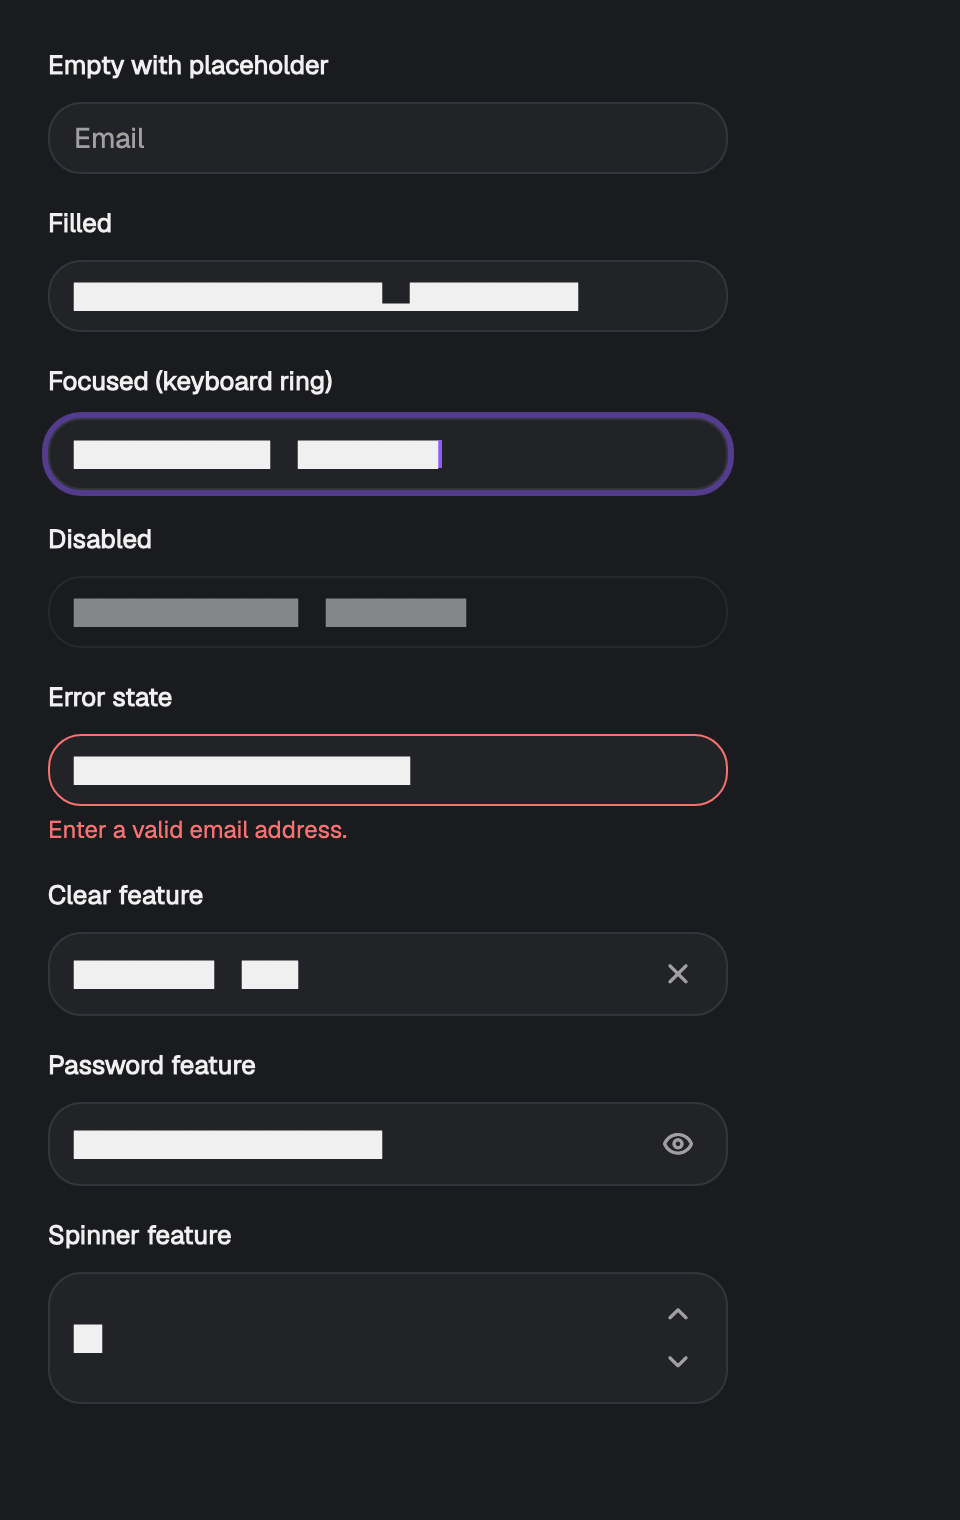
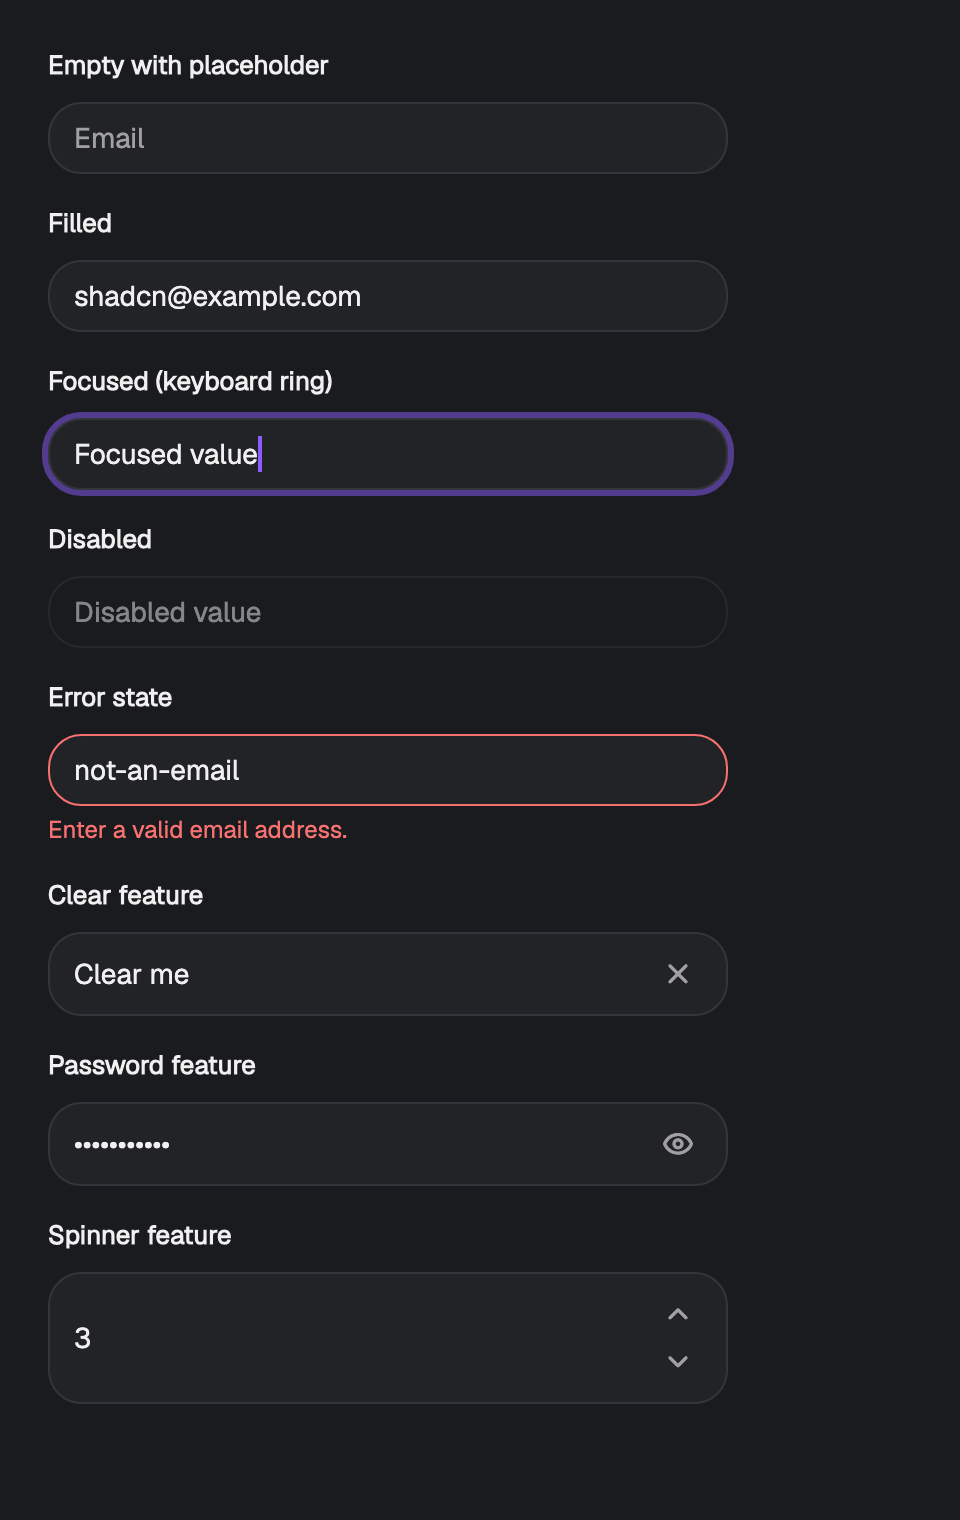
fix(registry_next): editable text uses the theme font; drop legacy meta dependencies blocks

diff --git a/flutter_shadcn_kit/test/registry_next/primitives/text_editing_test.dart b/flutter_shadcn_kit/test/registry_next/primitives/text_editing_test.dart
@@ -5,6 +5,7 @@
 
 import 'package:flutter/services.dart';
 import 'package:flutter/widgets.dart';
+import 'package:flutter_shadcn_kit/registry_next/primitives/text_editing/editable_text_style.dart';
 import 'package:flutter_shadcn_kit/registry_next/primitives/text_editing/text_editing.dart';
 import 'package:flutter_shadcn_kit/registry_next/theme/theme.dart';
 import 'package:flutter_test/flutter_test.dart';
@@ -271,5 +272,75 @@ void main() {
     expect(find.text('Cut'), findsNothing);
     expect(find.text('Copy'), findsNothing);
     expect(find.text('Select all'), findsOneWidget);
+  });
+
+  group('resolveEditableTextStyle', () {
+    Future<TextStyle> resolve(
+      WidgetTester tester, {
+      TextStyle? base,
+      List<TextStyle?> overrides = const <TextStyle?>[],
+      required Color color,
+      TextStyle ambient = const TextStyle(),
+    }) async {
+      late TextStyle resolved;
+      await tester.pumpWidget(
+        ShadcnTheme(
+          data: const ShadcnThemeData(),
+          child: Directionality(
+            textDirection: TextDirection.ltr,
+            child: DefaultTextStyle(
+              style: ambient,
+              child: Builder(
+                builder: (context) {
+                  resolved = resolveEditableTextStyle(
+                    context,
+                    base: base,
+                    overrides: overrides,
+                    color: color,
+                  );
+                  return const SizedBox();
+                },
+              ),
+            ),
+          ),
+        ),
+      );
+      return resolved;
+    }
+
+    testWidgets('falls back to the theme sans family', (tester) async {
+      final style = await resolve(
+        tester,
+        base: const TextStyle(fontSize: 14),
+        color: const Color(0xFF111111),
+      );
+      expect(
+        style.fontFamily,
+        const ShadcnThemeData().typography.sans.fontFamily,
+      );
+      expect(style.fontSize, 14);
+      expect(style.color, const Color(0xFF111111));
+    });
+
+    testWidgets('ambient family wins over theme sans, override wins all', (
+      tester,
+    ) async {
+      final ambient = await resolve(
+        tester,
+        base: const TextStyle(fontSize: 14),
+        ambient: const TextStyle(fontFamily: 'Ambient'),
+        color: const Color(0xFF111111),
+      );
+      expect(ambient.fontFamily, 'Ambient');
+
+      final explicit = await resolve(
+        tester,
+        base: const TextStyle(fontSize: 14),
+        overrides: const <TextStyle?>[TextStyle(fontFamily: 'Custom')],
+        ambient: const TextStyle(fontFamily: 'Ambient'),
+        color: const Color(0xFF111111),
+      );
+      expect(explicit.fontFamily, 'Custom');
+    });
   });
 }

diff --git a/flutter_shadcn_kit/lib/registry_next/primitives/text_editing/editable_text_style.dart b/flutter_shadcn_kit/lib/registry_next/primitives/text_editing/editable_text_style.dart
@@ -1,0 +1,46 @@
+// Shared style resolution for visible editable text.
+//
+// `EditableText` ignores the ambient `DefaultTextStyle`, so the theme font
+// must be wired explicitly here instead of relying on inheritance like
+// `Text` does. Every registry `EditableText` with painted glyphs
+// (`input` via `resolveInputSurface`, hence `text_area` too) resolves its
+// style through `resolveEditableTextStyle`.
+
+import 'package:flutter/widgets.dart';
+
+import '../../theme/theme.dart';
+
+/// Completes an editable-text style.
+///
+/// [base] is the size source (usually `theme.typography.small`, i.e.
+/// text-sm/14); [overrides] are the merged theme-leg + widget-leg styles and
+/// win over [base]. Missing fields are filled, in order, from the ambient
+/// `DefaultTextStyle` (galleries wire the theme font there) and then from
+/// `theme.typography.sans`, so a bare app with no ambient style still gets
+/// the theme font instead of the platform default. [color] is the final
+/// fallback (foreground for typed text, mutedForeground for placeholders).
+TextStyle resolveEditableTextStyle(
+  BuildContext context, {
+  TextStyle? base,
+  List<TextStyle?> overrides = const <TextStyle?>[],
+  required Color color,
+}) {
+  final ShadcnThemeData theme = ShadcnTheme.of(context);
+  final TextStyle ambient = DefaultTextStyle.of(context).style;
+  TextStyle merged = base ?? const TextStyle();
+  for (final TextStyle? override in overrides) {
+    merged = merged.merge(override);
+  }
+  return merged.copyWith(
+    fontFamily:
+        merged.fontFamily ??
+        ambient.fontFamily ??
+        theme.typography.sans.fontFamily,
+    fontFamilyFallback:
+        merged.fontFamilyFallback ??
+        ambient.fontFamilyFallback ??
+        theme.typography.sans.fontFamilyFallback,
+    height: merged.height ?? ambient.height,
+    color: merged.color ?? color,
+  );
+}

diff --git a/flutter_shadcn_kit/test/registry_next/components/input_test.dart b/flutter_shadcn_kit/test/registry_next/components/input_test.dart
@@ -467,4 +467,44 @@ void main() {
     expect(_surface(tester).color, _alpha(dark.colors.input, 0.3));
     expect(_surface(tester).border, Border.all(color: dark.colors.input));
   });
+
+  testWidgets('editable text uses the theme font family', (tester) async {
+    await tester.pumpWidget(
+      _frame(
+        child: const Input(hintText: 'Email', initialValue: 'typed'),
+      ),
+    );
+    final editable = _editable(tester);
+    expect(
+      editable.style.fontFamily,
+      const ShadcnThemeData().typography.sans.fontFamily,
+      reason: 'typed text must render in the theme font, not the default',
+    );
+    expect(editable.style.fontSize, 14);
+    expect(editable.style.color, colors.foreground);
+  });
+
+  testWidgets('placeholder uses mutedForeground', (tester) async {
+    await tester.pumpWidget(_frame(child: const Input(hintText: 'Email')));
+    final hint = tester.widget<Text>(find.text('Email'));
+    expect(hint.style?.color, colors.mutedForeground);
+  });
+
+  testWidgets('explicit style override wins over the theme font', (
+    tester,
+  ) async {
+    await tester.pumpWidget(
+      _frame(
+        child: const Input(
+          initialValue: 'typed',
+          theme: InputTheme(
+            textStyle: TextStyle(fontFamily: 'Custom', fontSize: 20),
+          ),
+        ),
+      ),
+    );
+    final editable = _editable(tester);
+    expect(editable.style.fontFamily, 'Custom');
+    expect(editable.style.fontSize, 20);
+  });
 }

diff --git a/flutter_shadcn_kit/lib/registry_next/components/input/input_style.dart b/flutter_shadcn_kit/lib/registry_next/components/input/input_style.dart
@@ -10,6 +10,7 @@ import 'dart:ui' show lerpDouble;
 
 import 'package:flutter/widgets.dart';
 
+import '../../primitives/text_editing/editable_text_style.dart';
 import '../../theme/color_tokens.dart';
 import '../../theme/density.dart';
 import '../../theme/theme.dart';
@@ -319,14 +320,18 @@ InputSurface resolveInputSurface(
         borderRadius: radius,
       );
 
-  final TextStyle baseTextStyle = theme.typography.small
-      .merge(resolved.textStyle)
-      .merge(style);
-  final TextStyle textStyle = baseTextStyle.copyWith(
-    color: baseTextStyle.color ?? colors.foreground,
+  final TextStyle textStyle = resolveEditableTextStyle(
+    context,
+    base: theme.typography.small,
+    overrides: <TextStyle?>[resolved.textStyle, style],
+    color: colors.foreground,
   );
-  final TextStyle hintStyle = (resolved.hintStyle ?? theme.typography.small)
-      .copyWith(color: resolved.hintStyle?.color ?? colors.mutedForeground);
+  final TextStyle hintStyle = resolveEditableTextStyle(
+    context,
+    base: theme.typography.small,
+    overrides: <TextStyle?>[resolved.hintStyle],
+    color: colors.mutedForeground,
+  );
 
   return InputSurface(
     decoration: surface,

diff --git a/flutter_shadcn_kit/test/registry_next/visual/pilot_screenshots_test.dart b/flutter_shadcn_kit/test/registry_next/visual/pilot_screenshots_test.dart
@@ -121,6 +121,14 @@ void main() {
       build: () => const _InputContextMenuScene(),
       interact: _openContextMenu,
     );
+    // Legacy name for the same capture: `input_menu_*.png` predate the
+    // `input_context_menu` rename and would otherwise go stale again.
+    _scene(
+      name: 'input_menu',
+      size: const Size(460, 320),
+      build: () => const _InputContextMenuScene(),
+      interact: _openContextMenu,
+    );
   });
 
   group('dialog', () {

diff --git a/rearch/reports/P3V_VISUAL.md b/rearch/reports/P3V_VISUAL.md
@@ -106,3 +106,44 @@ explicitly. `_DialogCard` gaps corrected to 16/16 (was 8/24) per §1.
 - `test/registry_next/visual/pilot_screenshots_test.dart` — themed dialog
   page background; card gaps 16/16.
 - `rearch/screenshots/pilot/*.png` — regenerated (24 files).
+
+## Round 2: editable-text theme font (real bug, not harness)
+
+Bug: `EditableText` ignores the ambient `DefaultTextStyle`, and
+`resolveInputSurface` built its style from `theme.typography.small` (size 14
+only, no family). `Text` widgets inherited the theme font (Geist) from the
+gallery/app `DefaultTextStyle`; typed text fell back to the platform default
+(in tests: Ahem tofu bars in every filled field of `input_*.png`).
+
+Fix (in `primitives/text_editing/`, so all consumers benefit): new
+`primitives/text_editing/editable_text_style.dart` with
+`resolveEditableTextStyle(context, {base, overrides, color})`. It keeps the
+existing merge order (text-sm base < theme-leg < widget-leg, colour
+foreground / mutedForeground fallbacks — no behaviour change there) and
+fills only what was missing: `fontFamily`/`fontFamilyFallback` from the
+ambient style when set, else from `theme.typography.sans` (bare apps with no
+ambient style still get the theme font), plus ambient `height` when the
+merged style has none. `resolveInputSurface` now routes both the typed style
+and the hint style through it. This fixes `input` and `text_area` (reuses
+`resolveInputSurface`); `input_otp` needs no change (visible digits are
+`Text` widgets, its `EditableText` is an invisible `Opacity(0)` field);
+`selectable` keeps its own style (out of scope, colour assertion still
+green). Behaviour nuance: a hint override without its own size now keeps the
+text-sm 14 instead of dropping the base (more correct; no test depended on
+the old drop).
+
+Tests: `input_test.dart` gains "editable text uses the theme font family"
+(`fontFamily == typography.sans.fontFamily`, size 14, foreground),
+"placeholder uses mutedForeground" and "explicit style override wins over
+the theme font"; `text_editing_test.dart` gains a `resolveEditableTextStyle`
+group (sans fallback, ambient-beats-sans, override-beats-all).
+`text_area`/`selectable`/`pilot_metrics` suites re-run green (no regressions;
+input height stays 36).
+
+Screenshots: regenerated — `input_light/dark.png`, `preset_input_*` and
+`preview_input_*` now show real glyphs, so the Round 1 verdict for those
+files flips from ISSUE to OK. `input_menu_light/dark.png` (stale since
+2026-10-06, no generator) now have one: an `input_menu` scene reusing the
+`input_context_menu` build + interact was added to
+`pilot_screenshots_test.dart` (no files deleted), and both PNGs regenerated
+with real glyphs and the Cut/Copy/Select-all toolbar visible.

diff --git a/rearch/briefs/fixes/P3-F-r2.md b/rearch/briefs/fixes/P3-F-r2.md
@@ -1,0 +1,12 @@
+Round 2 for P3-F. Your §1–§3 fixes are accepted and committed. One more real bug (not a harness artifact):
+the input's typed text renders without the theme font — EditableText receives a TextStyle with no fontFamily, while
+Text widgets inherit the theme's DefaultTextStyle. In a real app the typed text would use the platform default font
+instead of the theme font (e.g. Geist). Fix it in `primitives/text_editing/` (so text_area, input_otp, number/
+formatted inputs that reuse it are fixed too): the editable style must be built from the ambient text style /
+ShadcnTheme typography (fontFamily, fontFamilyFallback, size 14 / `text-sm`, height, colour foreground,
+placeholder mutedForeground), merged under any explicit style the caller passes. Add a test asserting the
+EditableText style's fontFamily equals the theme's sans family and the placeholder uses mutedForeground.
+Then regenerate the input screenshots (the filled values must show real glyphs) and, if feasible, add a generator
+for input_menu_*.png (context menu open over a selection) or delete those two stale PNGs.
+Outputs: primitives/text_editing/**, components/input/**, their tests, the visual test + PNGs, P3V_VISUAL.md.
+Gates: `rearch/qa_batch.sh input primitives/text_editing` and `flutter test test/registry_next/visual`.

diff --git a/rearch/briefs/fixes/P4-B07-r2.md b/rearch/briefs/fixes/P4-B07-r2.md
@@ -1,0 +1,10 @@
+QA round 2 for P4-B07 — gates clean (215 tests), 12 bugs caught. One production gap:
+F1 Calendar keyboard navigation (shadcn/react-day-picker parity + accessibility): the day grid must be focusable and
+traversable — ArrowLeft/Right ±1 day, ArrowUp/Down ±7 days, Home/End start/end of week, PageUp/PageDown ±1 month
+(Shift+PageUp/Down ±1 year), Enter/Space selects, crossing a month edge changes the displayed month; visible focus
+ring (ring token) on the focused day; disabled days are skipped. Use primitives (focus/subfocus/clickable or
+menu_nav) rather than a hand-rolled key handler where they fit; put reusable grid-navigation math in
+primitives/date_math.dart if needed. Keep files ≤ ~400 lines (calendar.dart is at 399 — move logic to
+calendar_style.dart or the primitive). Semantics: each day cell gets a label with the full localized date.
+F2 Size check (new template rule): assert day cell 32×32 (shadcn `size-8`) and nav buttons size with tester.getSize.
+Tests for every key above. Rerun `rearch/qa_batch.sh calendar skeleton carousel tooltip input_otp text_area`; `## RESULT`.

diff --git a/rearch/reports/QA_LOG.md b/rearch/reports/QA_LOG.md
@@ -260,3 +260,4 @@
 - qa_batch.sh button toggle input dialog: format 0 changed, 51/51, layers clean, theme 0; pilot_metrics + visual green.
 - r2: input text renders without the theme font (EditableText style lacks fontFamily) — real bug, fix in primitive.
 - Follow-up for all batches: audit every component's sizes for the same padding-on-minHeight stacking.
+- P3-F r2 ACCEPTED: resolveEditableTextStyle in primitives/text_editing — typed text + placeholder use the theme sans family (ambient → theme), size 14, mutedForeground hint; fixes input + text_area; input screenshots now show glyphs; input_menu PNGs have a generator. qa_batch input/text_editing clean (30 tests); text_area/selectable/pilot_metrics 63 green; visual 26 green. Orchestrator removed empty legacy `dependencies` blocks from button/input/slider/toggle meta.json (deps is the single source). Open: selectable builds its own EditableText style — fold into the helper in its next touch.
